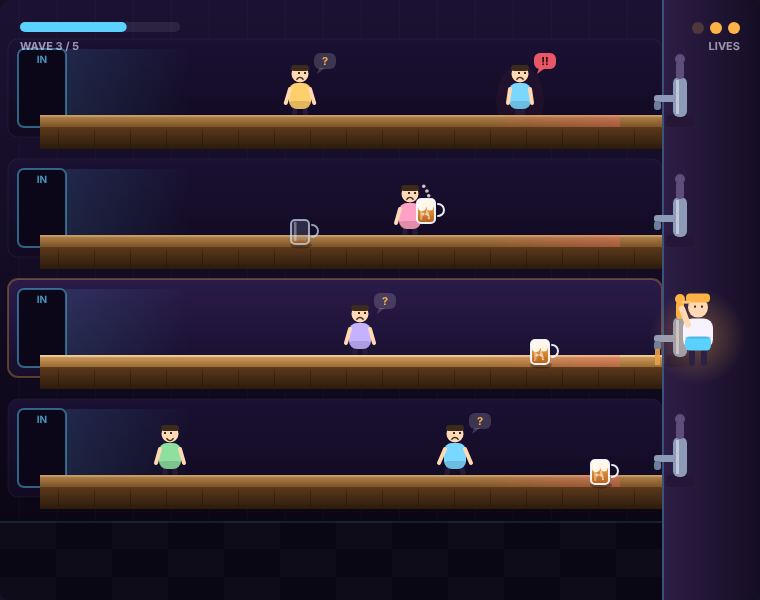
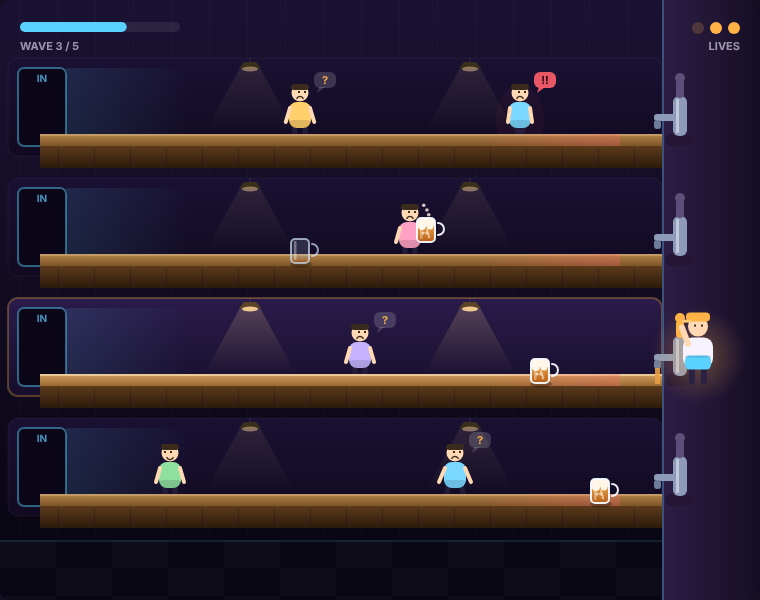
Polish Soda Tapper art and mark it complete
Hanging lamps over each counter, a clearer chrome tap and soda glass, arms
on the customers, and the counters moved down out of the wave meter's way.
All 93 Playwright specs pass, so the root README now lists the game as
Complete.

Claude-Session: https://claude.ai/code/session_01Jq2MJ9XwG8ZeEwLmreDCMr

diff --git a/SodaTapper/game.js b/SodaTapper/game.js
@@ -15,7 +15,7 @@ const H = canvas.height;             // 600
 const DT = 1 / 120;                  // fixed simulation timestep, seconds
 
 const LANES = 4;
-const LANE_TOP = 105;                // y of the first counter
+const LANE_TOP = 124;                // y of the first counter, clear of the wave meter
 const LANE_GAP = 120;                // spacing between counters
 
 const BAR_LEFT = 70;                 // door end: customers enter, full mugs die
@@ -503,6 +503,42 @@ function drawBooth(i) {
     ctx.font = 'bold 10px "Segoe UI", system-ui, sans-serif';
     ctx.textAlign = 'center';
     ctx.fillText('IN', 42, y - 42);
+
+    // lamps hanging over the counter
+    for (const lx of [250, 470]) {
+        const cone = ctx.createLinearGradient(0, y - 56, 0, y + TOP_Y);
+        cone.addColorStop(0, active ? 'rgba(255, 214, 150, 0.2)' : 'rgba(255, 214, 150, 0.09)');
+        cone.addColorStop(1, 'rgba(255, 214, 150, 0)');
+        ctx.fillStyle = cone;
+        ctx.beginPath();
+        ctx.moveTo(lx - 10, y - 56);
+        ctx.lineTo(lx + 10, y - 56);
+        ctx.lineTo(lx + 46, y + TOP_Y);
+        ctx.lineTo(lx - 46, y + TOP_Y);
+        ctx.closePath();
+        ctx.fill();
+
+        ctx.strokeStyle = 'rgba(255, 255, 255, 0.12)';
+        ctx.lineWidth = 1;
+        ctx.beginPath();
+        ctx.moveTo(lx, y - 66);
+        ctx.lineTo(lx, y - 62);
+        ctx.stroke();
+
+        ctx.fillStyle = active ? '#5a4326' : '#3a2e1c';
+        ctx.beginPath();
+        ctx.moveTo(lx - 11, y - 56);
+        ctx.lineTo(lx + 11, y - 56);
+        ctx.lineTo(lx + 6, y - 62);
+        ctx.lineTo(lx - 6, y - 62);
+        ctx.closePath();
+        ctx.fill();
+
+        ctx.fillStyle = active ? 'rgba(255, 214, 150, 0.9)' : 'rgba(255, 214, 150, 0.45)';
+        ctx.beginPath();
+        ctx.ellipse(lx, y - 55, 8, 2.5, 0, 0, Math.PI * 2);
+        ctx.fill();
+    }
 }
 
 function drawCounter(i) {

diff --git a/SodaTapper/DESIGN.md b/SodaTapper/DESIGN.md
@@ -26,7 +26,7 @@ and every mug you pour is a second errand coming back the other way.
 |---|---|---|
 | `W` × `H` | 760 × 600 | canvas size in CSS pixels |
 | `LANES` | 4 | counters, indexed 0 (top) to 3 (bottom) |
-| `LANE_TOP` / `LANE_GAP` | 105 / 120 | `laneY(i) = LANE_TOP + i * LANE_GAP` |
+| `LANE_TOP` / `LANE_GAP` | 124 / 120 | `laneY(i) = LANE_TOP + i * LANE_GAP` |
 | `BAR_LEFT` | 70 | door end: customers enter here, full mugs shatter here |
 | `TAP_X` | 650 | tap line: full mugs start here, empty mugs are caught here |
 | `GRAB_X` | 620 | a customer reaching this grabs you |

diff --git a/README.md b/README.md
@@ -142,7 +142,7 @@ For each new game, put it in a new folder. Each game should have its own README.
 | Canyon Raider | [CanyonRaider/](CanyonRaider/) | Complete |
 | Air Traffic Control | [AirTrafficControl/](AirTrafficControl/) | Complete |
 | Gold Runner | [GoldRunner/](GoldRunner/) | Complete |
-| Soda Tapper | [SodaTapper/](SodaTapper/) | In Progress |
+| Soda Tapper | [SodaTapper/](SodaTapper/) | Complete |
 
 ## Playing
 
